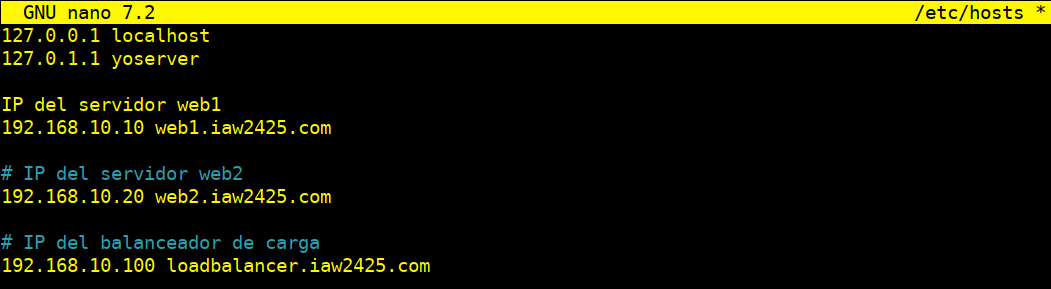
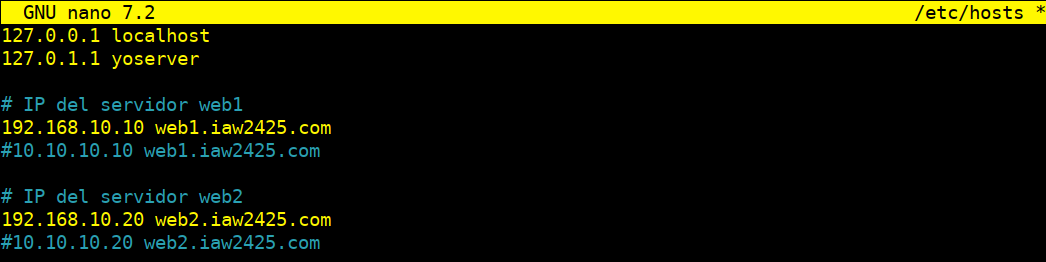
correción /etc/hosts

Changed region(s): [[0.0, 0.5496, 0.4283, 0.9466], [0.0, 0.0, 1.0, 0.2748], [0.0, 0.3359, 0.3365, 0.5191]]

diff --git a/site/Práctica 2.5/Documento-apache/index.html b/site/Práctica 2.5/Documento-apache/index.html
@@ -1255,7 +1255,7 @@
         
           <li class="md-nav__item">
   <a href="#creamos-una-pagina-html-de-muestra-y-un-archivo-de-configuracion-de-host-virtual-en-el-primer-servidor-apache" class="md-nav__link">
-    Creamos una página HTML de muestra y un archivo de configuración de host virtual en el primer servidor Apache:**
+    Creamos una página HTML de muestra y un archivo de configuración de host virtual en el primer servidor Apache
   </a>
   
 </li>
@@ -1314,6 +1314,13 @@
   
 </li>
         
+          <li class="md-nav__item">
+  <a href="#configuracion-en-etchosts_1" class="md-nav__link">
+    Configuración en /etc/hosts
+  </a>
+  
+</li>
+        
       </ul>
     </nav>
   
@@ -1367,6 +1374,11 @@
   
 </li>
         
+      </ul>
+    </nav>
+  
+</li>
+        
           <li class="md-nav__item">
   <a href="#configuraremos-la-politica-de-balanceo-de-carga" class="md-nav__link">
     Configuraremos la Política de Balanceo de Carga
@@ -1374,8 +1386,17 @@
   
 </li>
         
-      </ul>
-    </nav>
+          <li class="md-nav__item">
+  <a href="#configuracion-en-etchosts_2" class="md-nav__link">
+    Configuración en /etc/hosts
+  </a>
+  
+</li>
+        
+          <li class="md-nav__item">
+  <a href="#pondremos-la-ip-del-servidor-balanceador-para-verificar-el-balanceo-de-carga-con-apache" class="md-nav__link">
+    Pondremos la IP del servidor balanceador para verificar el Balanceo de carga con Apache
+  </a>
   
 </li>
         
@@ -1478,7 +1499,7 @@
         
           <li class="md-nav__item">
   <a href="#creamos-una-pagina-html-de-muestra-y-un-archivo-de-configuracion-de-host-virtual-en-el-primer-servidor-apache" class="md-nav__link">
-    Creamos una página HTML de muestra y un archivo de configuración de host virtual en el primer servidor Apache:**
+    Creamos una página HTML de muestra y un archivo de configuración de host virtual en el primer servidor Apache
   </a>
   
 </li>
@@ -1537,6 +1558,13 @@
   
 </li>
         
+          <li class="md-nav__item">
+  <a href="#configuracion-en-etchosts_1" class="md-nav__link">
+    Configuración en /etc/hosts
+  </a>
+  
+</li>
+        
       </ul>
     </nav>
   
@@ -1590,6 +1618,11 @@
   
 </li>
         
+      </ul>
+    </nav>
+  
+</li>
+        
           <li class="md-nav__item">
   <a href="#configuraremos-la-politica-de-balanceo-de-carga" class="md-nav__link">
     Configuraremos la Política de Balanceo de Carga
@@ -1597,8 +1630,17 @@
   
 </li>
         
-      </ul>
-    </nav>
+          <li class="md-nav__item">
+  <a href="#configuracion-en-etchosts_2" class="md-nav__link">
+    Configuración en /etc/hosts
+  </a>
+  
+</li>
+        
+          <li class="md-nav__item">
+  <a href="#pondremos-la-ip-del-servidor-balanceador-para-verificar-el-balanceo-de-carga-con-apache" class="md-nav__link">
+    Pondremos la IP del servidor balanceador para verificar el Balanceo de carga con Apache
+  </a>
   
 </li>
         
@@ -1631,8 +1673,8 @@
 
 <h2 id="actualizar-paquetes-del-sistema">Actualizar Paquetes del Sistema</h2>
 <p><strong>Primero, actualizaremos y mejoraremos todos los paquetes del sistema a la última versión en todos los servidores:</strong></p>
-<p><code>apt update -y</code>
-<code>apt upgrade -y</code></p>
+<p><code>apt update -y</code></p>
+<p><code>apt upgrade -y</code></p>
 <p>Reiniciaremos todos los servidores para aplicar los cambios.</p>
 <h2 id="instalaremos-el-servidor-web-apache-en-los-tres-servidores">Instalaremos el Servidor Web Apache en los tres servidores</h2>
 <p><code>sudo apt install apache2 -y</code></p>
@@ -1642,14 +1684,14 @@
 <h2 id="configuramos-el-primer-servidor-backend-apache">Configuramos el Primer Servidor Backend Apache</h2>
 <h3 id="configuramos-el-firewall">Configuramos el Firewall</h3>
 <h4 id="establecemos-los-puertos-22-y-80-para-comunicarnos-por-terminal-con-el-servidor-y-para-poder-acceder-al-servidor-apache">Establecemos los puertos 22 y 80 para comunicarnos por terminal con el servidor y para poder acceder al servidor apache</h4>
-<p><code>sudo ufw enable</code>
-<code>sudo ufw allow 22</code>
-<code>sudo ufw allow 80</code></p>
+<p><code>sudo ufw enable</code></p>
+<p><code>sudo ufw allow 22</code></p>
+<p><code>sudo ufw allow 80</code></p>
 <p><img alt="alt text" src="../image-1.png" /></p>
 <h4 id="eliminamos-la-pagina-por-defecto-documentroot-indexhtml-para-evitar-que-no-interfiera-en-cada-servidor-backend-web1-y-web2">Eliminamos la página por defecto (DocumentRoot) <code>index.html</code> para evitar que no interfiera en cada servidor backend <code>web1</code> y <code>web2</code></h4>
-<p><code>cd /var/www/html</code>
-<code>sudo rm -rf index.html</code></p>
-<h4 id="creamos-una-pagina-html-de-muestra-y-un-archivo-de-configuracion-de-host-virtual-en-el-primer-servidor-apache">Creamos una página HTML de muestra y un archivo de configuración de host virtual en el primer servidor Apache:**</h4>
+<p><code>cd /var/www/html</code></p>
+<p><code>sudo rm -rf index.html</code></p>
+<h4 id="creamos-una-pagina-html-de-muestra-y-un-archivo-de-configuracion-de-host-virtual-en-el-primer-servidor-apache">Creamos una página HTML de muestra y un archivo de configuración de host virtual en el primer servidor Apache</h4>
 <p><code>sudo nano /var/www/html/web1.html</code></p>
 <p><strong>Agregamos el siguiente código HTML:</strong></p>
 <div class="highlight"><pre><span></span><code><span class="p">&lt;</span><span class="nt">html</span><span class="p">&gt;</span>
@@ -1662,9 +1704,9 @@
 <p><img alt="alt text" src="../image-2.png" /></p>
 <p><strong>Guardamos y cerramos el archivo.</strong></p>
 <h4 id="deshabilitamos-el-sitio-por-defecto-de-apache-para-evitar-conflictos">Deshabilitamos el sitio por defecto de Apache para evitar conflictos</h4>
-<p><code>cd /etc/apache2/sites-available</code>
-<code>sudo a2dissite 000-default.conf</code>
-<code>sudo systemctl reload apache2.service</code></p>
+<p><code>cd /etc/apache2/sites-available</code></p>
+<p><code>sudo a2dissite 000-default.conf</code></p>
+<p><code>sudo systemctl reload apache2.service</code></p>
 <h4 id="creamos-el-archivo-de-configuracion-del-host-virtual">Creamos el archivo de configuración del host virtual</h4>
 <p><code>nano /etc/apache2/sites-available/web1.conf</code></p>
 <p>Agregamos las siguientes configuraciones:</p>
@@ -1680,16 +1722,16 @@
 <p><img alt="alt text" src="../image-3.png" /></p>
 <p><strong>Guardamos y cerramos el archivo, luego habilitamos y recargamos el servicio Apache:</strong>
 Habilitamos:</p>
-<p><code>sudo a2ensite web1.conf</code>
-<code>sudo systemctl reload apache2</code></p>
+<p><code>sudo a2ensite web1.conf</code></p>
+<p><code>sudo systemctl reload apache2</code></p>
 <h4 id="configuracion-en-etchosts">Configuración en /etc/hosts</h4>
 <p>En cada uno de los servidores backend (web1 y web2) y en el balanceador, agregaremos las IP y los nombres de todos los servidores (<code>web1, web2 y loadbalancer</code>) en el archivo <strong>/etc/hosts</strong>:</p>
-<p><code># IP del servidor web1</code>
-<code>&lt;IP_web1&gt; web1.iaw2425.com</code></p>
-<p><code>IP del servidor web2</code>
-<code>&lt;IP_web2&gt; web2.iaw2425.com</code></p>
-<p><code>IP del balanceador de carga</code>
-<code>&lt;IP_loadbalancer&gt; loadbalancer.iaw2425.com</code></p>
+<p><code># IP del servidor web1</code></p>
+<p><code>&lt;IP_web1&gt; web1.iaw2425.com</code></p>
+<p><code>IP del servidor web2</code></p>
+<p><code>&lt;IP_web2&gt; web2.iaw2425.com</code></p>
+<p><code>IP del balanceador de carga</code></p>
+<p><code>&lt;IP_loadbalancer&gt; loadbalancer.iaw2425.com</code></p>
 <p><img alt="alt text" src="../image-5.png" /></p>
 <h2 id="configuramos-el-segundo-servidor-backend-apache">Configuramos el Segundo Servidor Backend Apache</h2>
 <h3 id="a-partir-de-la-configuracion-del-firewall-realizaremos-los-mismos-pasos-hasta-aqui-que-es-donde-cambiaremos-la-configuracion-para-el-segundo-servidor">A partir de la configuración del Firewall realizaremos los mismos pasos hasta aquí, que es donde cambiaremos la configuración para el segundo servidor</h3>
@@ -1705,9 +1747,9 @@ Habilitamos:</p>
 </code></pre></div>
 <p><img alt="alt text" src="../image-6.png" /></p>
 <p><strong>Deshabilitamos el sitio por defecto de Apache para evitar conflictos</strong></p>
-<p><code>cd /etc/apache2/sites-available</code>
-<code>sudo a2dissite 000-default.conf</code>
-<code>sudo systemctl reload apache2.service</code></p>
+<p><code>cd /etc/apache2/sites-available</code></p>
+<p><code>sudo a2dissite 000-default.conf</code></p>
+<p><code>sudo systemctl reload apache2.service</code></p>
 <p><strong>Guardamos y cerramos el archivo.</strong></p>
 <p><strong>Creamos el archivo de configuración del host virtual</strong></p>
 <p><code>nano /etc/apache2/sites-available/web2.conf</code></p>
@@ -1724,16 +1766,16 @@ Habilitamos:</p>
 <p><img alt="alt text" src="../image-7.png" /></p>
 <p><strong>Guardamos y cerramos el archivo, luego habilitamos y recargamos el servicio Apache:</strong>
 Habilitamos:</p>
-<p><code>sudo a2ensite web2.conf</code>
-<code>sudo systemctl reload apache2</code></p>
-<p><strong>Configuración en /etc/hosts</strong></p>
+<p><code>sudo a2ensite web2.conf</code></p>
+<p><code>sudo systemctl reload apache2</code></p>
+<h4 id="configuracion-en-etchosts_1">Configuración en /etc/hosts</h4>
 <p>En cada uno de los servidores backend (web1 y web2) y en el balanceador, agregaremos las IP y los nombres de todos los servidores (<code>web1, web2 y loadbalancer</code>) en el archivo <strong>/etc/hosts</strong>:</p>
-<p><code># IP del servidor web1</code>
-<code>&lt;IP_web1&gt; web1.iaw2425.com</code></p>
-<p><code>IP del servidor web2</code>
-<code>&lt;IP_web2&gt; web2.iaw2425.com</code></p>
-<p><code>IP del balanceador de carga</code>
-<code>&lt;IP_loadbalancer&gt; loadbalancer.iaw2425.com</code></p>
+<p><code># IP del servidor web1</code></p>
+<p><code>&lt;IP_web1&gt; web1.iaw2425.com</code></p>
+<p><code>IP del servidor web2</code></p>
+<p><code>&lt;IP_web2&gt; web2.iaw2425.com</code></p>
+<p><code>IP del balanceador de carga</code></p>
+<p><code>&lt;IP_loadbalancer&gt; loadbalancer.iaw2425.com</code></p>
 <p><img alt="alt text" src="../image-8.png" /></p>
 <h2 id="creamos-el-balanceador-de-carga-de-apache">Creamos el Balanceador de Carga de Apache</h2>
 <h3 id="una-vez-actualizado-el-sistema-y-configurado-el-firewall-seguiremos-con-los-siguientes-pasos">Una vez actualizado el sistema y configurado el Firewall seguiremos con los siguientes pasos</h3>
@@ -1754,7 +1796,7 @@ a2enmod<span class="w"> </span>lbmethod_byrequests
 <code>sudo systemctl reload apache2.service</code></p>
 <p><strong>Creamos un archivo de configuración de Apache para el balanceo de carga</strong></p>
 <p><code>sudo nano /etc/apache2/sites-available/loadbalancer.conf</code></p>
-<p>aAgregamos las siguientes configuraciones:</p>
+<p>Agregamos las siguientes configuraciones:</p>
 <div class="highlight"><pre><span></span><code><span class="nt">&lt;VirtualHost</span><span class="w"> </span><span class="s">*:80</span><span class="nt">&gt;</span>
 <span class="w">    </span><span class="nb">ServerName</span><span class="w"> </span>balancer.iaw2425.com
 <span class="w">    </span><span class="nt">&lt;Proxy</span><span class="w"> </span><span class="s">balancer://webserver</span><span class="nt">&gt;</span>
@@ -1776,9 +1818,9 @@ a2enmod<span class="w"> </span>lbmethod_byrequests
 <p><img alt="alt text" src="../image-9.png" /></p>
 <p><strong>Guardamos y cerramos el archivo, luego habilitamos y recargamos el servicio Apache:</strong>
 Habilitamos:</p>
-<p><code>sudo a2ensite loadbalancer.conf</code>
-<code>sudo systemctl reload apache2</code></p>
-<h4 id="configuraremos-la-politica-de-balanceo-de-carga">Configuraremos la Política de Balanceo de Carga</h4>
+<p><code>sudo a2ensite loadbalancer.conf</code></p>
+<p><code>sudo systemctl reload apache2</code></p>
+<h3 id="configuraremos-la-politica-de-balanceo-de-carga">Configuraremos la Política de Balanceo de Carga</h3>
 <p><strong>Para configurar la política de balanceo de carga es necesario tener activado previamente el módulo proxy_balancer con el siguiente comando:</strong></p>
 <p><code>sudo a2enmod proxy_balancer</code></p>
 <p>El balanceo de carga que vamos a utilizar en esta práctica será un balanceo de tipo Round Robin. Este método de balanceo de carga consiste en distribuir las peticiones entre los servidores de forma secuencial, de forma que cada vez que llegue una nueva petición se envía al siguiente servidor de la lista de servidores configurados en el servidor Apache.</p>
@@ -1787,16 +1829,16 @@ Habilitamos:</p>
 <p>Este método de balanceo también permite distribuir las peticiones entre los servidores en función de los parámetros <code>lbfactor y lbstatus</code>.</p>
 <p>Recordemos que después de habilitar los módulos es necesario reiniciar el servicio de Apache:</p>
 <p><code>systemctl restart apache2</code></p>
-<p><strong>Configuración en /etc/hosts</strong></p>
+<h3 id="configuracion-en-etchosts_2">Configuración en /etc/hosts</h3>
 <p>En cada uno de los servidores backend (web1 y web2) y en el balanceador, agregaremos las IP y los nombres de todos los servidores (<code>web1, web2 y loadbalancer</code>) en el archivo <strong>/etc/hosts</strong>:</p>
-<p><code># IP del servidor web1</code>
-<code>&lt;IP_web1&gt; web1.iaw2425.com</code></p>
-<p><code>IP del servidor web2</code>
-<code>&lt;IP_web2&gt; web2.iaw2425.com</code></p>
-<p><code>IP del balanceador de carga</code>
-<code>&lt;IP_loadbalancer&gt; loadbalancer.iaw2425.com</code></p>
+<p><code># IP del servidor web1</code></p>
+<p><code>&lt;IP_web1&gt; web1.iaw2425.com</code></p>
+<p><code>IP del servidor web2</code></p>
+<p><code>&lt;IP_web2&gt; web2.iaw2425.com</code></p>
+<p><code>IP del balanceador de carga</code></p>
+<p><code>&lt;IP_loadbalancer&gt; loadbalancer.iaw2425.com</code></p>
 <p><img alt="alt text" src="../image-10.png" /></p>
-<p><strong>Pondremos la IP del servidor balanceador para verificar el Balanceo de carga con Apache</strong></p>
+<h3 id="pondremos-la-ip-del-servidor-balanceador-para-verificar-el-balanceo-de-carga-con-apache">Pondremos la IP del servidor balanceador para verificar el Balanceo de carga con Apache</h3>
 
 
 

diff --git a/docs/Práctica 2.5/Documento-apache.md b/docs/Práctica 2.5/Documento-apache.md
@@ -106,27 +106,10 @@ Habilitamos:
 
 `sudo systemctl reload apache2`
 
-#### Configuración en /etc/hosts
-
-En cada uno de los servidores backend (web1 y web2) y en el balanceador, agregaremos las IP y los nombres de todos los servidores (`web1, web2 y loadbalancer`) en el archivo **/etc/hosts**:
-
-`# IP del servidor web1`
-
-`<IP_web1> web1.iaw2425.com`
-
-`IP del servidor web2`
-
-`<IP_web2> web2.iaw2425.com`
-
-`IP del balanceador de carga`
-
-`<IP_loadbalancer> loadbalancer.iaw2425.com`
-
-![alt text](image-5.png)
 
 ## Configuramos el Segundo Servidor Backend Apache
 
-### A partir de la configuración del Firewall realizaremos los mismos pasos hasta aquí, que es donde cambiaremos la configuración para el segundo servidor
+### A partir de la configuración del Firewall realizaremos los dos mismos pasos previos hasta aquí, que es donde cambiaremos la configuración para el segundo servidor
 
 #### Creamos una página HTML de muestra en el segundo servidor
 
@@ -181,24 +164,6 @@ Habilitamos:
 `sudo a2ensite web2.conf`
 
 `sudo systemctl reload apache2`
-
-#### Configuración en /etc/hosts
-
-En cada uno de los servidores backend (web1 y web2) y en el balanceador, agregaremos las IP y los nombres de todos los servidores (`web1, web2 y loadbalancer`) en el archivo **/etc/hosts**:
-
-`# IP del servidor web1`
-
-`<IP_web1> web1.iaw2425.com`
-
-`IP del servidor web2`
-
-`<IP_web2> web2.iaw2425.com`
-
-`IP del balanceador de carga`
-
-`<IP_loadbalancer> loadbalancer.iaw2425.com`
-
-![alt text](image-8.png)
 
 ## Creamos el Balanceador de Carga de Apache
 
@@ -284,7 +249,7 @@ Recordemos que después de habilitar los módulos es necesario reiniciar el serv
 
 ### Configuración en /etc/hosts
 
-En cada uno de los servidores backend (web1 y web2) y en el balanceador, agregaremos las IP y los nombres de todos los servidores (`web1, web2 y loadbalancer`) en el archivo **/etc/hosts**:
+En el balanceador, agregaremos las IP y los nombres de todos los servidores backend (`web1, web2`) en el archivo **/etc/hosts**:
 
 `# IP del servidor web1`
 
@@ -294,10 +259,14 @@ En cada uno de los servidores backend (web1 y web2) y en el balanceador, agregar
 
 `<IP_web2> web2.iaw2425.com`
 
-`IP del balanceador de carga`
+![alt text](image-5.png)
 
-`<IP_loadbalancer> loadbalancer.iaw2425.com`
+### Pondremos en el navegador la IP del servidor balanceador para verificar el Balanceo de carga con Apache
 
+Teniendo en cuenta también que tendremos que configurar antes en el fichero /etc/hosts del equipo donde tenemos el navegador la IP del balanceador y nombre de dominio para **asegurar que las solicitudes al dominio del balanceador se dirijan correctamente a la IP del balanceador**, en lugar de pasar por el DNS público o por algún otro servicio de resolución de nombres.
+
+![alt text](image-8.png)
 ![alt text](image-10.png)
+![alt text](image-11.png)
 
-### Pondremos la IP del servidor balanceador para verificar el Balanceo de carga con Apache
+#### Tenemos que tener en cuenta el configurar la IP y el nombre del dominio en el balanceador en el fichero /etc/hosts , pero sino trabajamos con nombres de dominio solo con IP nos valdrá
